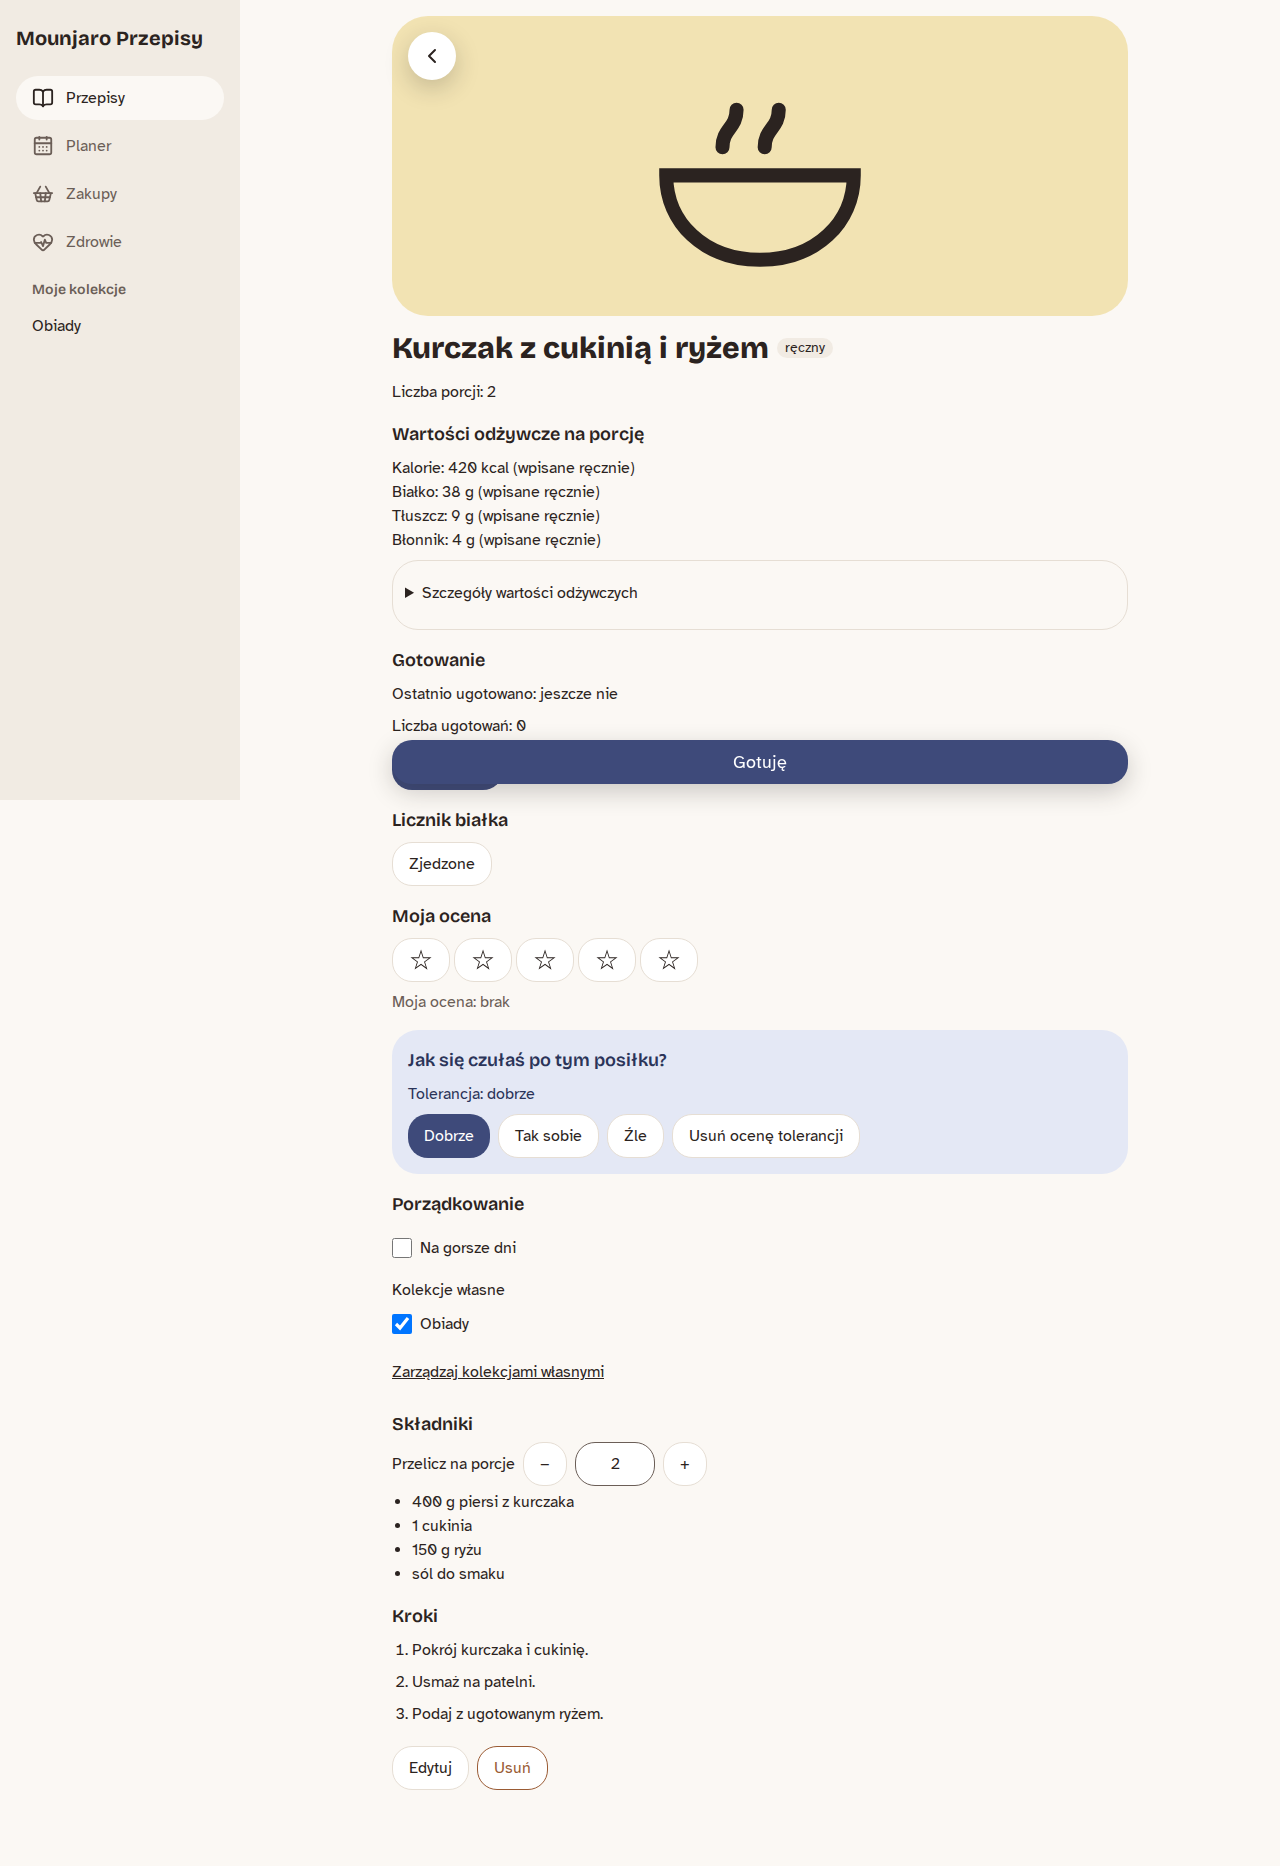
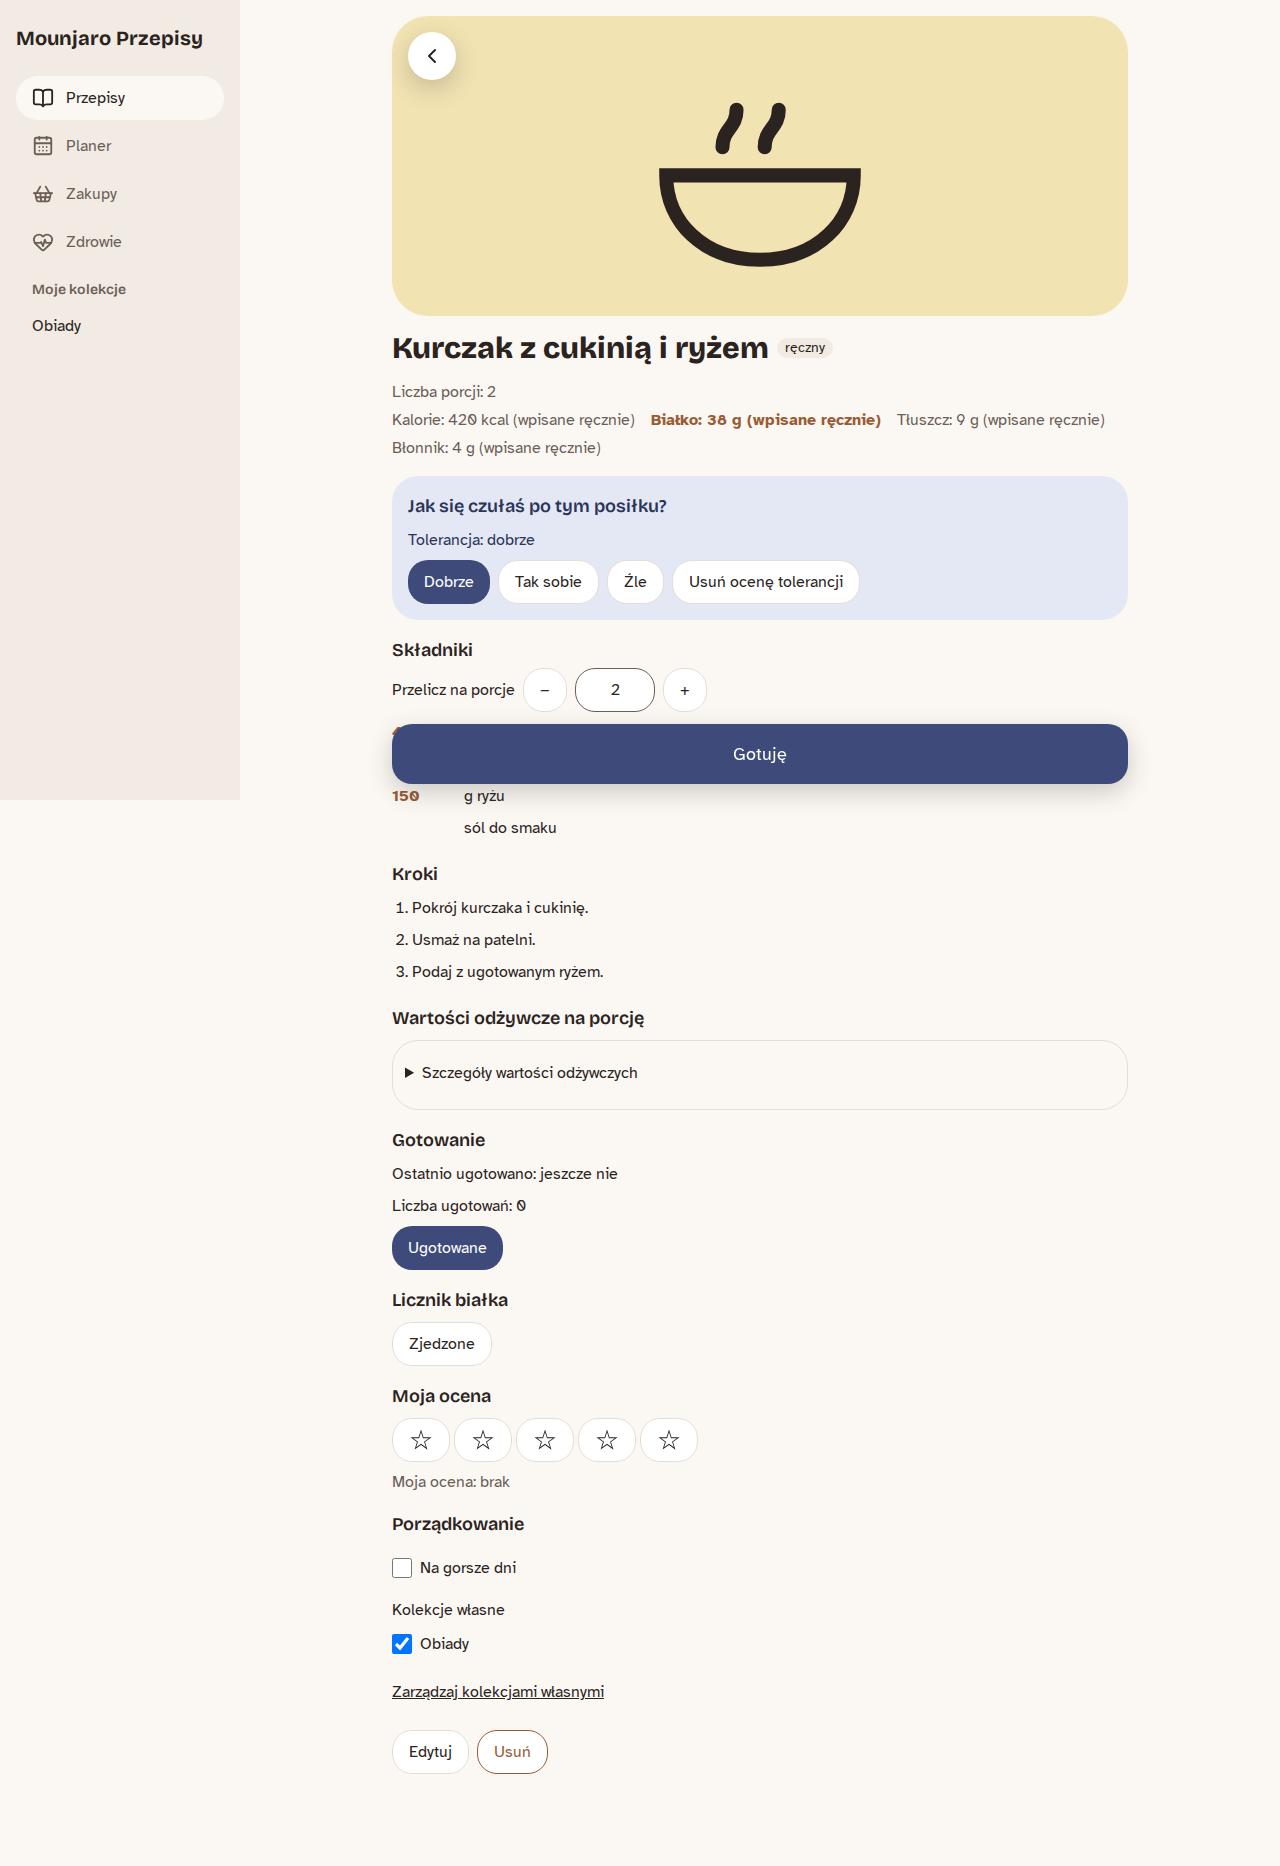
fix: recipe screen layout per design, 60 px cook button

diff --git a/src/client/screens/RecipeScreen.tsx b/src/client/screens/RecipeScreen.tsx
@@ -8,7 +8,7 @@ import { formatSourceRating } from '../../shared/domain/sourceRating';
 import { CookPanel } from '../components/CookPanel';
 import { EatenPanel } from '../components/EatenPanel';
 import { ErrorNotice } from '../components/ErrorNotice';
-import { NutritionDetails } from '../components/NutritionDetails';
+import { NutritionDetails, NutritionSummary } from '../components/NutritionDetails';
 import { OwnRating } from '../components/OwnRating';
 import { RecipeImage } from '../components/RecipeImage';
 import { ScaledIngredients } from '../components/ScaledIngredients';
@@ -142,21 +142,26 @@ function RecipeDetails({ recipe }: { recipe: Recipe }) {
         {recipe.worseDays ? <Badge tone="warn">Na gorsze dni</Badge> : null}
         {recipe.tolerance === 'bad' ? <Badge tone="warn">źle toleruję</Badge> : null}
       </div>
-      {recipe.kind === 'link' || recipe.sourceRating !== null ? (
-        <p>Ocena ze źródła: {formatSourceRating(recipe)}</p>
-      ) : null}
-      <p>Liczba porcji: {recipe.servings.toLocaleString('pl-PL')}</p>
-      <NutritionDetails recipe={recipe} />
+      <div className="flex flex-col gap-1 text-ink-muted">
+        <p>
+          {[
+            recipe.kind === 'link' || recipe.sourceRating !== null
+              ? `Ocena ze źródła: ${formatSourceRating(recipe)}`
+              : null,
+            recipe.ownRating !== null ? `Moja ocena ${recipe.ownRating}/5` : null,
+            `Liczba porcji: ${recipe.servings.toLocaleString('pl-PL')}`,
+          ]
+            .filter(Boolean)
+            .join(' · ')}
+        </p>
+        <NutritionSummary recipe={recipe} />
+      </div>
       {finishedCooking ? (
         <p role="status" className="rounded-lg bg-primary-soft text-on-primary-soft p-3">
           Koniec gotowania. Oceń smak i tolerancję tego przepisu poniżej.
         </p>
       ) : null}
-      <CookPanel recipe={recipe} />
-      <EatenPanel recipe={recipe} />
-      <OwnRating recipe={recipe} />
       <ToleranceEditor recipe={recipe} />
-      <RecipeOrganizer recipe={recipe} />
       <section aria-labelledby="ingredients-heading" className="flex flex-col gap-1">
         <h2 id="ingredients-heading" className="text-lg font-semibold">
           Składniki
@@ -166,7 +171,7 @@ function RecipeDetails({ recipe }: { recipe: Recipe }) {
           ingredients={recipe.ingredients}
           baseServings={recipe.servings}
           servings={servings}
-          className="list-disc pl-5"
+          columns
         />
       </section>
       <section aria-labelledby="steps-heading" className="flex flex-col gap-1">
@@ -181,6 +186,11 @@ function RecipeDetails({ recipe }: { recipe: Recipe }) {
           ))}
         </ol>
       </section>
+      <NutritionDetails recipe={recipe} />
+      <CookPanel recipe={recipe} />
+      <EatenPanel recipe={recipe} />
+      <OwnRating recipe={recipe} />
+      <RecipeOrganizer recipe={recipe} />
       <div className="flex flex-wrap gap-2">
         <ButtonLink to={`/przepisy/${recipe.id}/edycja`} variant="secondary">
           Edytuj
@@ -189,7 +199,8 @@ function RecipeDetails({ recipe }: { recipe: Recipe }) {
       </div>
       <ButtonLink
         to={cookPath}
-        className="sticky bottom-[calc(6rem+env(safe-area-inset-bottom))] z-[5] min-h-action w-full text-lg shadow-nav md:bottom-4"
+        size="action"
+        className="sticky bottom-[calc(6rem+env(safe-area-inset-bottom))] z-[5] w-full shadow-nav md:bottom-4"
       >
         Gotuję
       </ButtonLink>

diff --git a/src/client/components/NutritionDetails.tsx b/src/client/components/NutritionDetails.tsx
@@ -143,7 +143,21 @@ function NutritionRow({ recipe, nutritionKey }: { recipe: Recipe; nutritionKey: 
   );
 }
 
-/** The four values with their origin, and the details: each value, ingredients left out of the sum. */
+/** One line with the four values and their origin: secondary text, the protein bold in `accent`. */
+export function NutritionSummary({ recipe }: { recipe: Recipe }) {
+  return (
+    <ul aria-label="Wartości odżywcze" className="flex flex-wrap gap-x-4 gap-y-1 text-ink-muted">
+      {NUTRITION_KEYS.map((key) => (
+        <li key={key} className={key === 'proteinG' ? 'font-bold text-accent' : undefined}>
+          {LABELS[key].label}: {formatValue(recipe, key)} (
+          {ORIGIN_LABELS[recipe.nutrition[key].origin]})
+        </li>
+      ))}
+    </ul>
+  );
+}
+
+/** The details: each value with a way to type it, ingredients left out of the sum. */
 export function NutritionDetails({ recipe }: { recipe: Recipe }) {
   const unrecognized = recipe.unrecognizedIngredients;
   // The details are drawn only while open, so their text is not in the page twice.
@@ -153,14 +167,6 @@ export function NutritionDetails({ recipe }: { recipe: Recipe }) {
       <h2 id="nutrition-heading" className="text-lg font-semibold">
         Wartości odżywcze na porcję
       </h2>
-      <ul aria-label="Wartości odżywcze">
-        {NUTRITION_KEYS.map((key) => (
-          <li key={key}>
-            {LABELS[key].label}: {formatValue(recipe, key)} (
-            {ORIGIN_LABELS[recipe.nutrition[key].origin]})
-          </li>
-        ))}
-      </ul>
       <details
         open={open}
         onToggle={(event) => setOpen(event.currentTarget.open)}

diff --git a/src/client/components/ScaledIngredients.tsx b/src/client/components/ScaledIngredients.tsx
@@ -1,25 +1,35 @@
 import type { Ingredient } from '../../shared/contracts/recipe';
 import { scaleIngredient } from '../../shared/domain/portions';
 
+const LEADING_AMOUNT = /^(\d+(?:[.,]\d+)?(?:\s?[-–/]\s?\d+(?:[.,]\d+)?)?|[½¼¾⅓⅔])\s+(.+)$/;
+
 /** Ingredient list recalculated for `servings`; the stored recipe is untouched (S12). */
 export function ScaledIngredients({
   ingredients,
   baseServings,
   servings,
   className,
+  columns = false,
 }: {
   ingredients: readonly Ingredient[];
   baseServings: number;
   servings: number;
   className?: string;
+  /** The amount in a 64 px `accent` column with the name beside it (recipe screen). */
+  columns?: boolean;
 }) {
   return (
     <ul className={className}>
       {ingredients.map((ingredient, index) => {
         const scaled = scaleIngredient(ingredient, baseServings, servings);
+        const split = columns ? LEADING_AMOUNT.exec(scaled.text) : null;
         return (
-          <li key={index}>
-            {scaled.text}
+          <li key={index} className={columns ? 'flex gap-2 py-1' : undefined}>
+            {columns ? (
+              <span className="w-16 shrink-0 font-bold text-accent">{split ? split[1] : ''}</span>
+            ) : null}
+            {columns ? ' ' : null}
+            {split ? split[2] : scaled.text}
             {scaled.status === 'unscaled' ? (
               <span className="text-ink-muted"> (ilość nieprzeliczona)</span>
             ) : null}

diff --git a/src/client/components/ui/Button.tsx b/src/client/components/ui/Button.tsx
@@ -1,7 +1,7 @@
 import type { ButtonHTMLAttributes } from 'react';
 
 type Variant = 'primary' | 'secondary' | 'danger' | 'danger-outline';
-type Size = 'md' | 'cook';
+type Size = 'md' | 'cook' | 'action';
 
 const VARIANTS: Record<Variant, string> = {
   primary: 'bg-primary text-on-primary',
@@ -12,6 +12,7 @@ const VARIANTS: Record<Variant, string> = {
 
 const SIZES: Record<Size, string> = {
   md: 'min-h-touch min-w-touch px-4',
+  action: 'min-h-action min-w-touch px-4 text-lg',
   cook: 'min-h-14 min-w-14 px-4 text-2xl',
 };
 

diff --git a/tests/e2e/s12-portions.spec.ts b/tests/e2e/s12-portions.spec.ts
@@ -105,7 +105,7 @@ test.describe('S12: skalowanie porcji', () => {
       ingredients: ['400 g marchewki'],
       nutritionManual: { kcal: 320, proteinG: 25, fatG: 10, fiberG: 6 },
     });
-    const nutrition = page.getByRole('region', { name: /wartości odżywcze/i });
+    const nutrition = page.getByRole('list', { name: 'Wartości odżywcze' });
     const before = await nutrition.innerText();
     expect(before).toContain('320');
 

diff --git a/tests/e2e/s27-navigation.spec.ts b/tests/e2e/s27-navigation.spec.ts
@@ -280,6 +280,7 @@ test.describe('S27: przycisk „Gotuję” nad paskiem', () => {
     await page.goto(`/przepisy/${id}`);
     const cook = page.getByRole('link', { name: 'Gotuję' });
     await expect(cook).toBeVisible();
+    expect((await cook.boundingBox())?.height ?? 0).toBeGreaterThanOrEqual(60);
 
     const gap = async () => {
       const cookBox = await cook.boundingBox();
